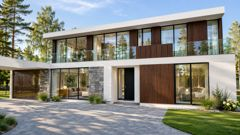
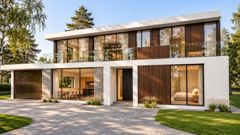
Visualisations: consistent 9-image set (street, aerial, terrace+sauna, living, kitchen, master, sauna lounge, bathroom, evening)

diff --git a/photo.js b/photo.js
@@ -8,12 +8,16 @@ const CAP = {
   en: (h) => `The plot today · drone photo 13 Nov 2026 · altitude ${h} m`,
   ru: (h) => `Участок сегодня · фото с дрона 13.11.2026 · высота ${h} м`,
 };
-const RN = [   // photoreal visualisations (ChatGPT, from frames of the 3D model)
+const RN = [   // photoreal visualisations (ChatGPT, from frames of the 3D model, one consistent "house bible")
   ['01_tanav', 'Peafassaad tänavalt', 'Main facade from the street', 'Главный фасад с улицы'],
   ['02_ohust', 'Maja ja meri linnulennult', 'The house and the sea from above', 'Дом и море с высоты'],
   ['03_terrass', 'Aiaterrass ja saunatsoon', 'Garden terrace and the sauna lounge', 'Терраса и зона сауны'],
-  ['04_elutuba', 'Elutuba kaminaga', 'Living room with fireplace', 'Гостиная с камином'],
+  ['04_elutuba', 'Elutuba kaminaga, taga köök', 'Living room with fireplace, kitchen behind', 'Гостиная с камином, за ней кухня'],
   ['05_kook', 'Köök ja söögituba merevaatega', 'Kitchen and dining with a sea view', 'Кухня-столовая с видом на море'],
+  ['06_master', 'Magamistuba rõdu ja merevaatega', 'Master bedroom with balcony and sea view', 'Спальня с балконом и видом на море'],
+  ['07_saunatsoon', 'Saunatsoon ja saun', 'Sauna lounge and sauna', 'Зона отдыха и сауна'],
+  ['08_vannituba', 'Vannituba', 'Bathroom', 'Ванная комната'],
+  ['09_ohtu', 'Peafassaad õhtul', 'Main facade in the evening', 'Главный фасад вечером'],
 ];
 const NOTE = { et: 'illustreeriv visualiseering', en: 'illustrative visualisation', ru: 'иллюстративная визуализация' };
 const SETS = { et: ['Visualiseeringud', 'Krunt täna'], en: ['Visualisations', 'The plot today'], ru: ['Визуализации', 'Участок сегодня'] };
